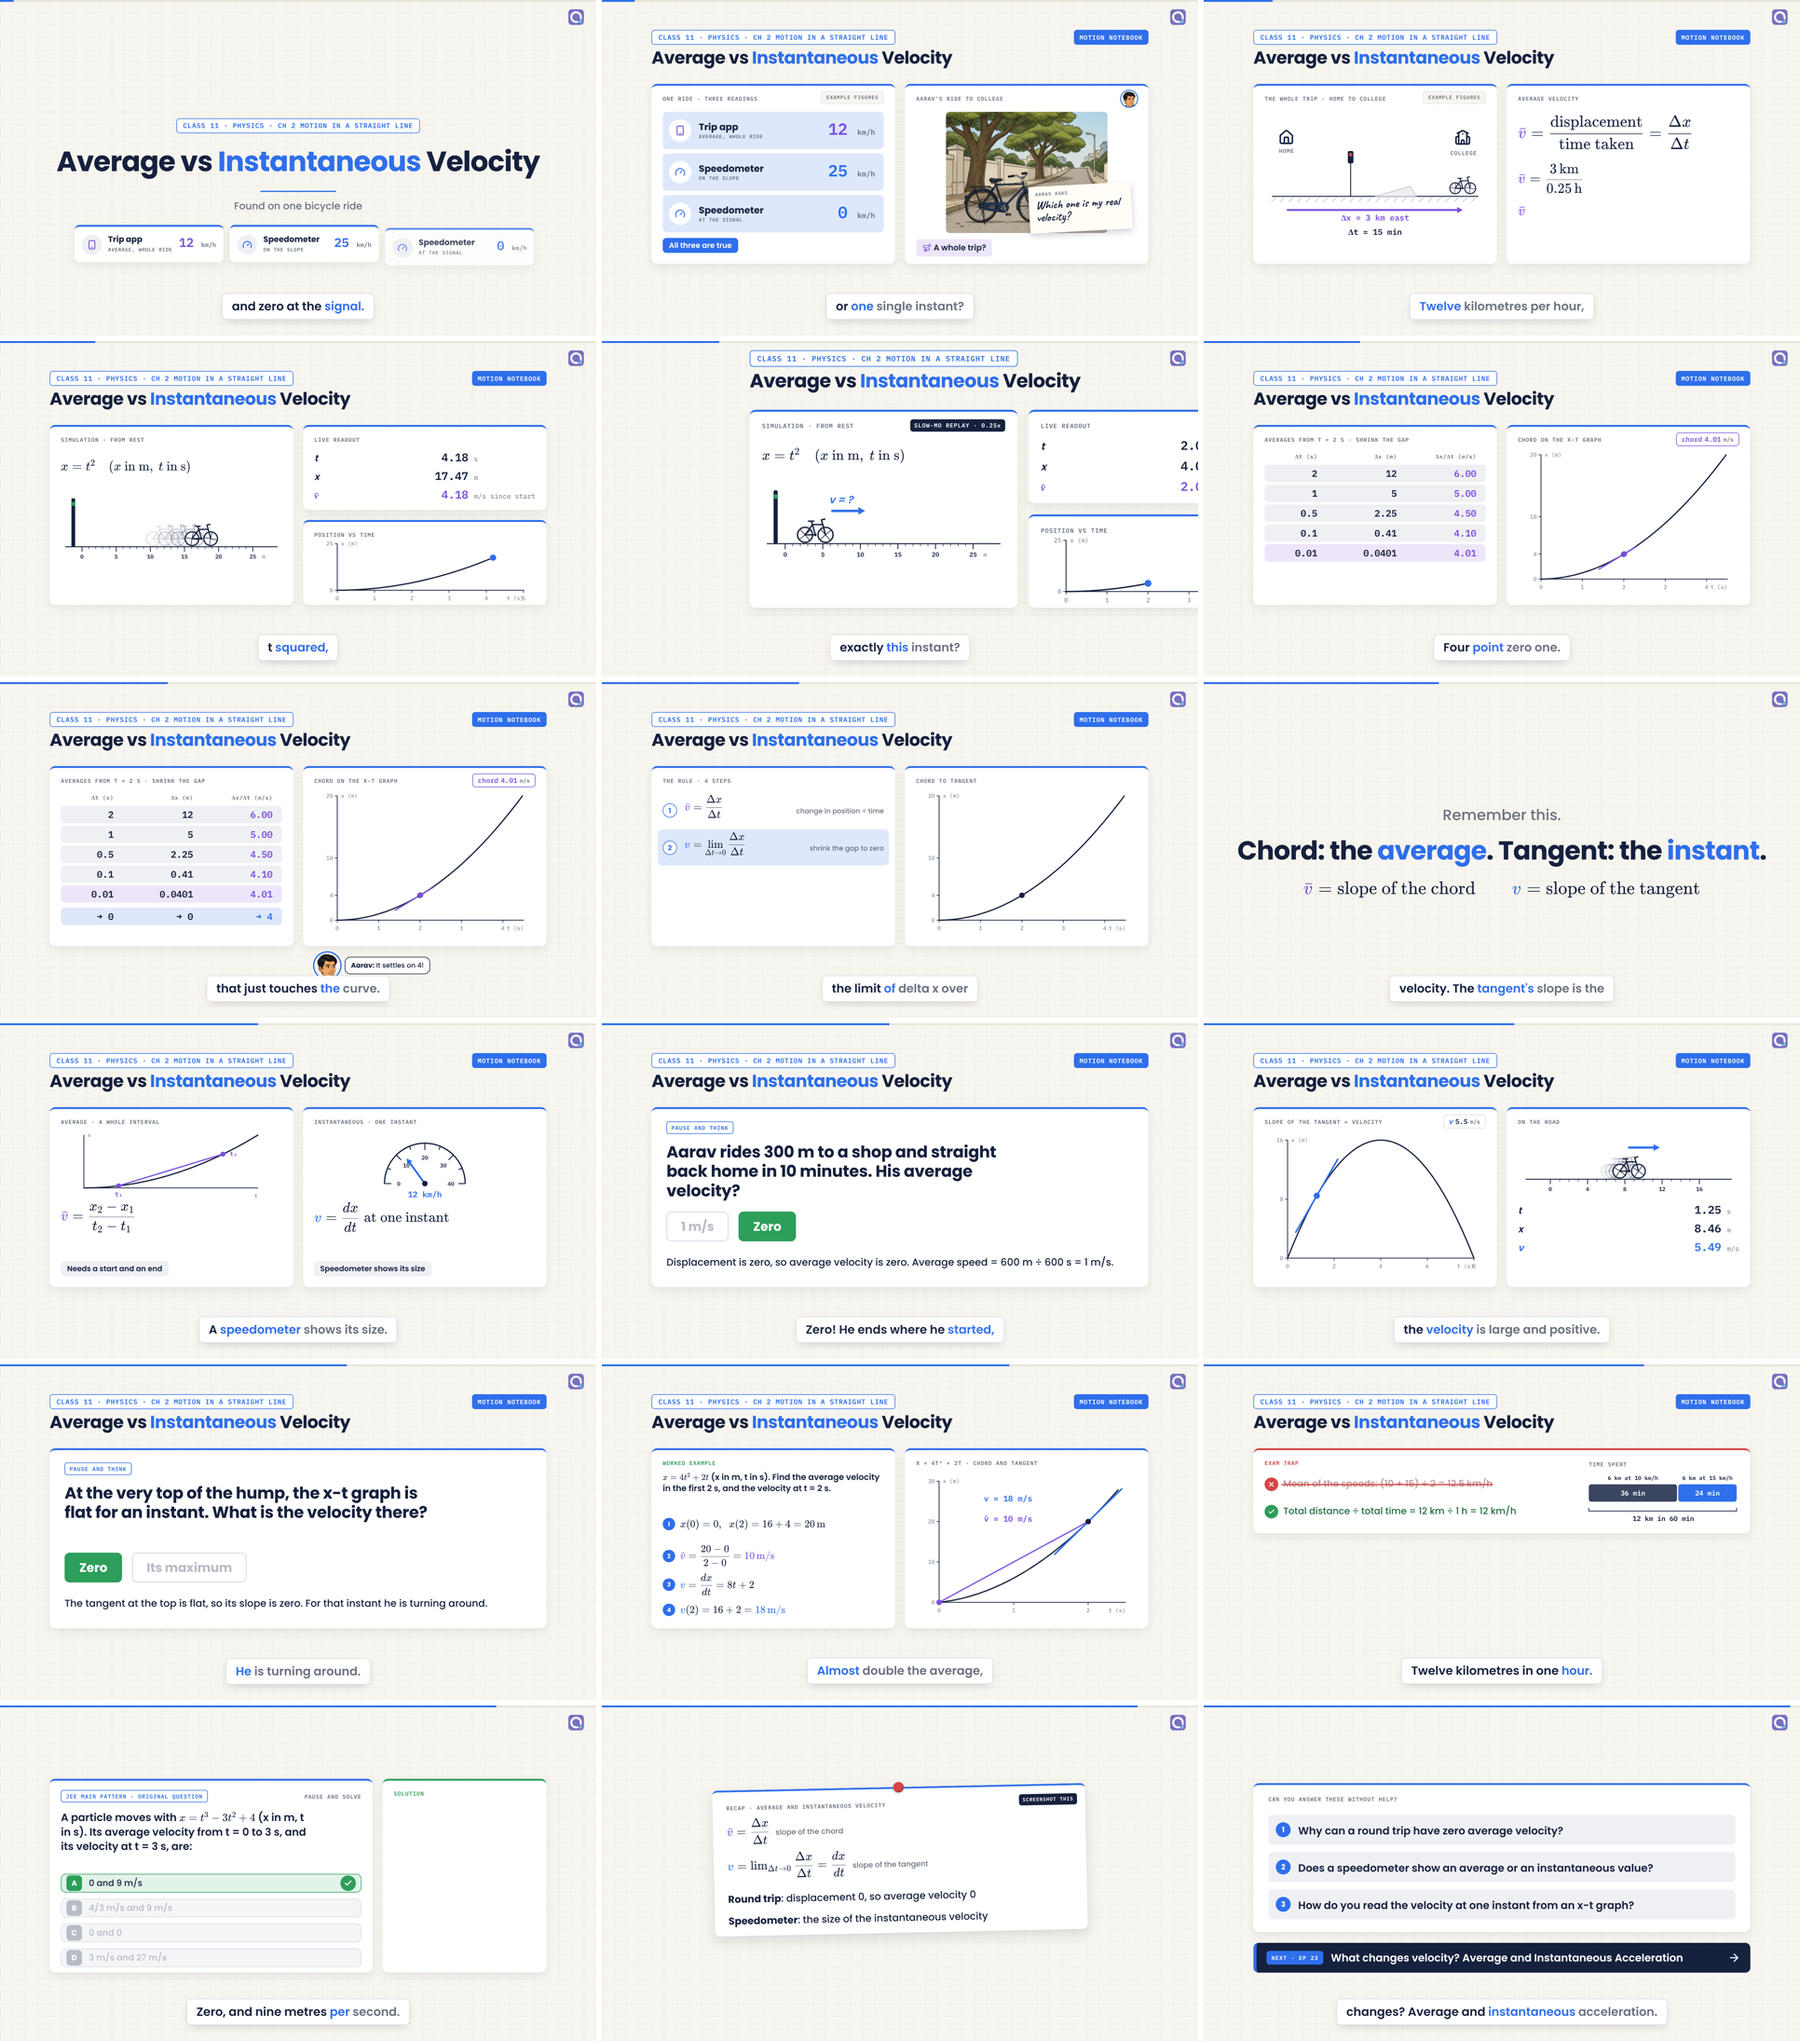
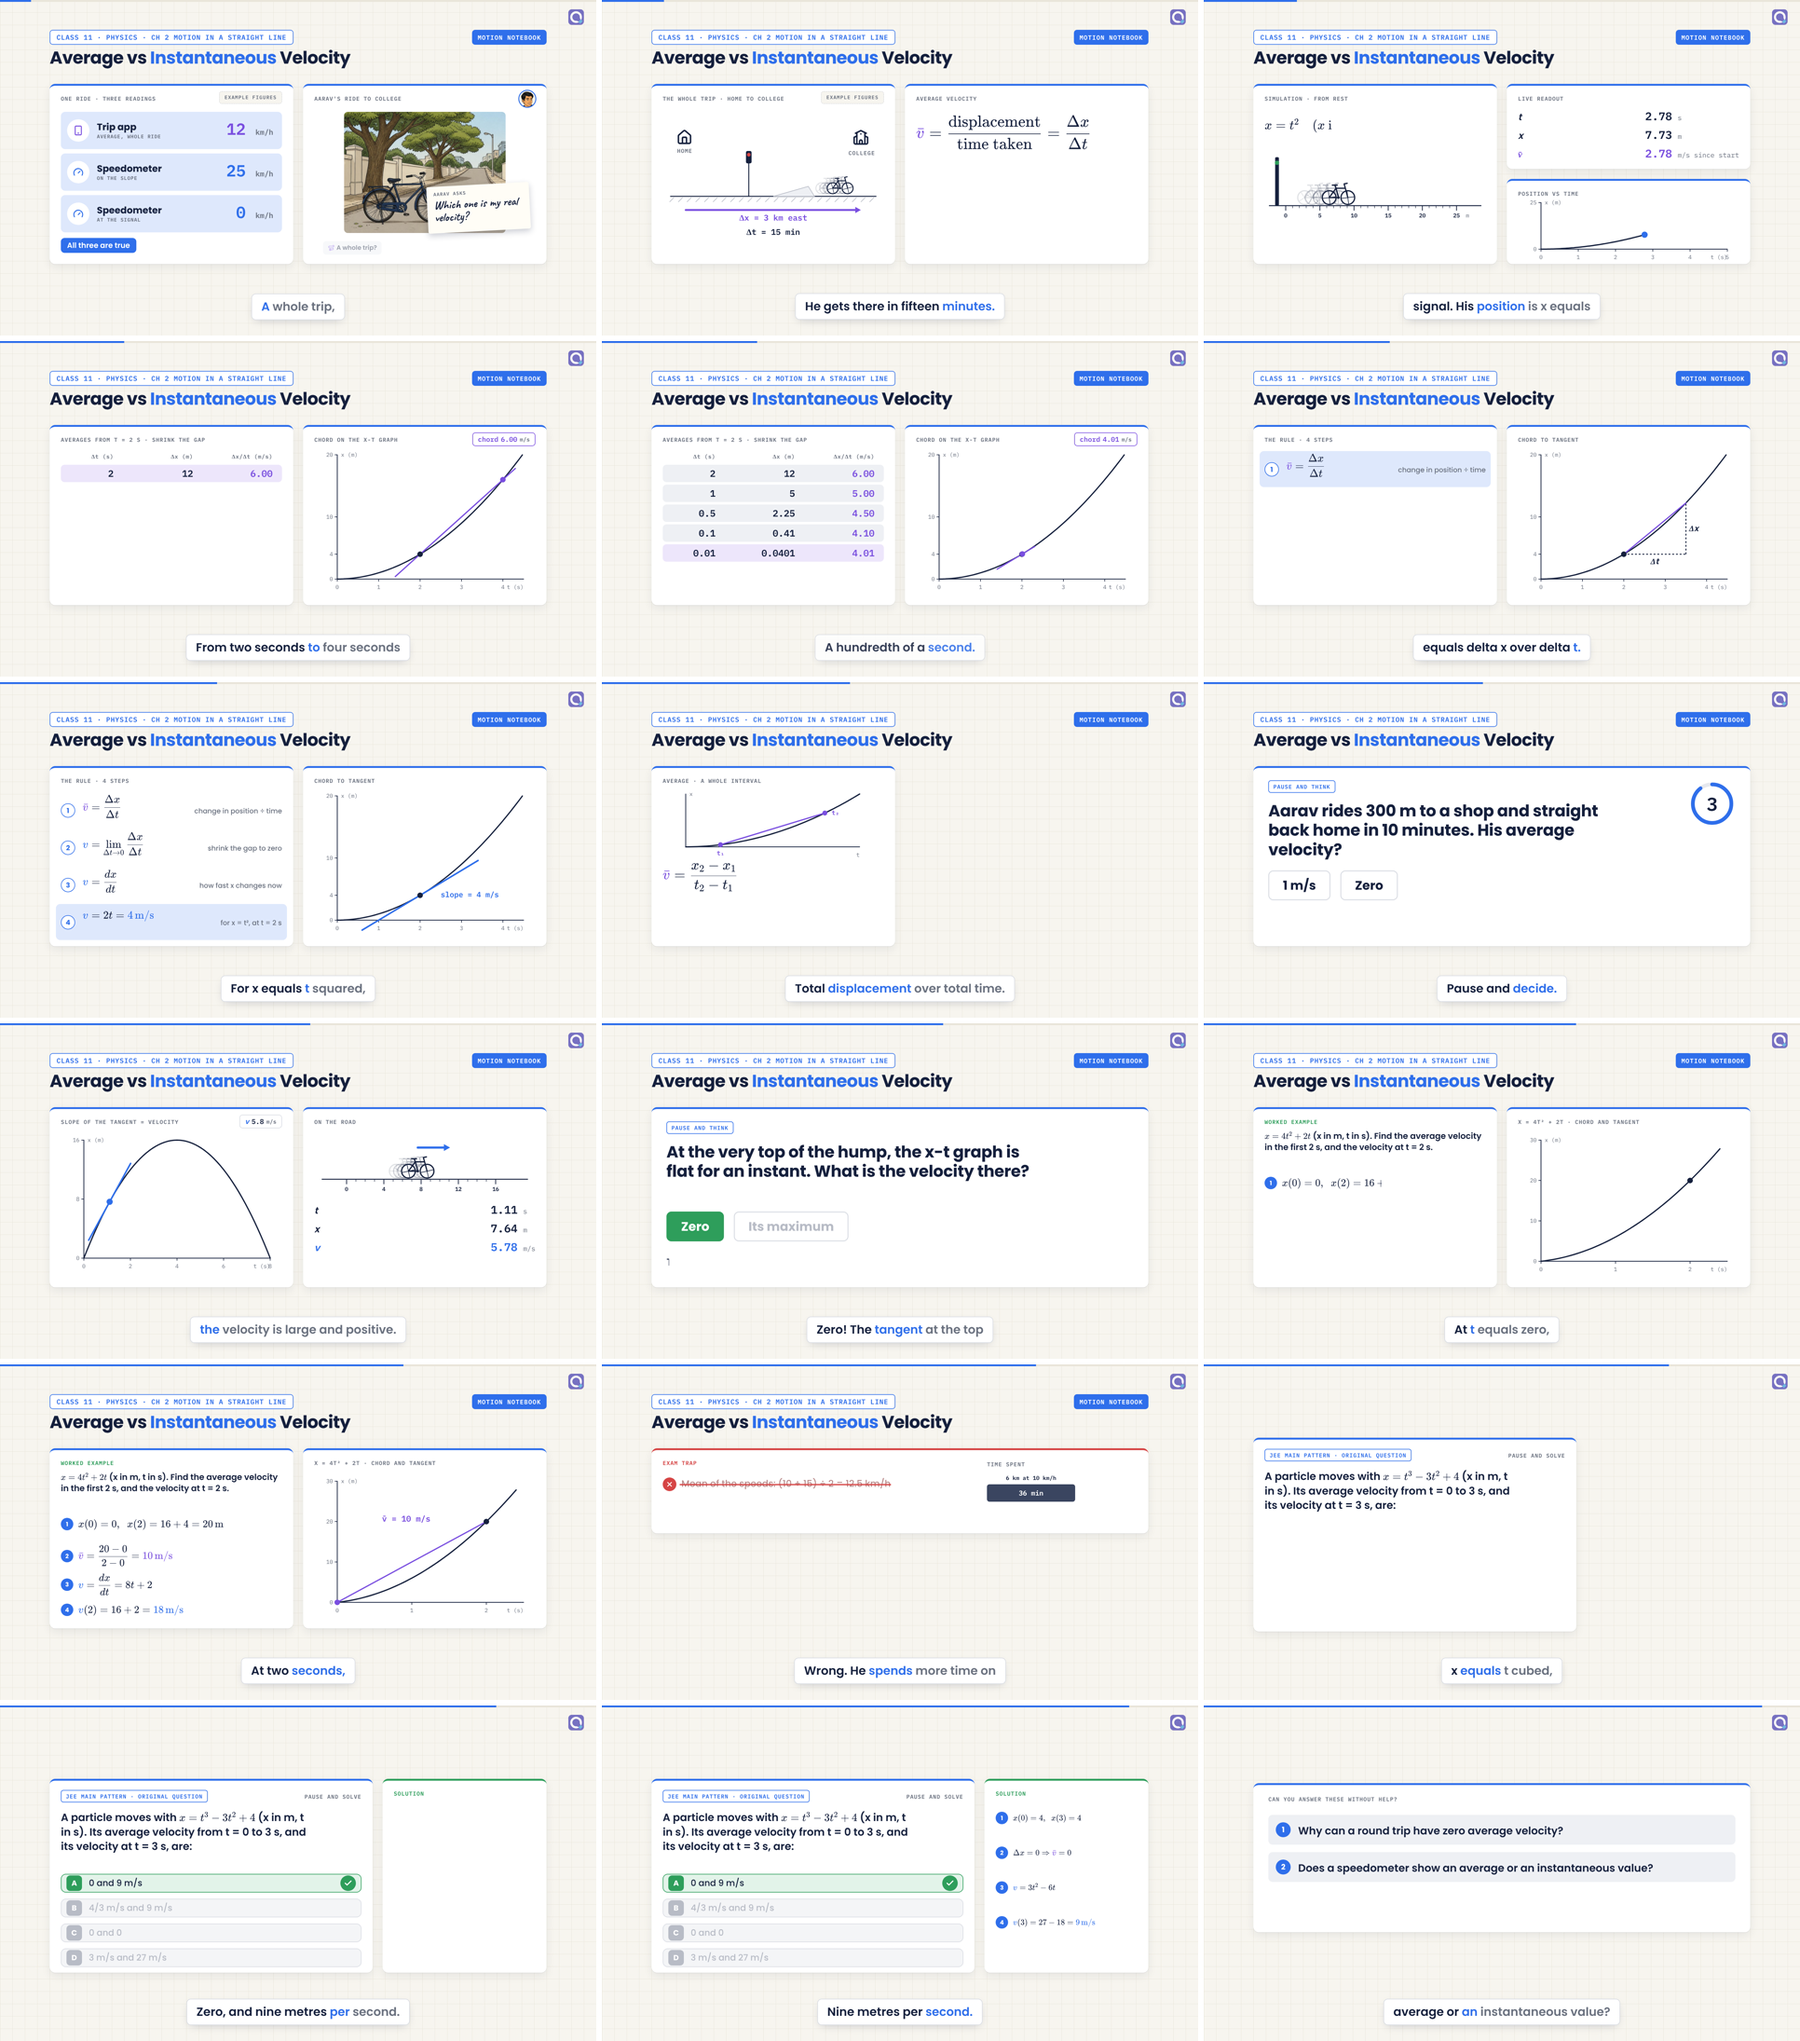
puc-physics Eps 22-23 reviewed, ready (Ep 22 statement size fix)
Claude-Session: https://claude.ai/code/session_01A9Yf9Ux47ei315g5AMbUHs

diff --git a/videos/puc-physics-average-and-instantaneous-velocity/index.html b/videos/puc-physics-average-and-instantaneous-velocity/index.html
@@ -57,6 +57,7 @@
 .yr{position:absolute;left:48px;width:1504px;height:96px;border-radius:14px;background:var(--soft)}
 .yr .n{position:absolute;left:24px;top:24px;width:48px;height:48px;border-radius:50%;background:var(--ac);color:#fff;font:700 24px Poppins;display:flex;align-items:center;justify-content:center}
 .yr .q{position:absolute;left:96px;top:26px;font:600 34px Poppins;white-space:nowrap}
+#st2{font-size:66px}
 </style></head><body>
 <div id="stage">
   <div id="cam">
